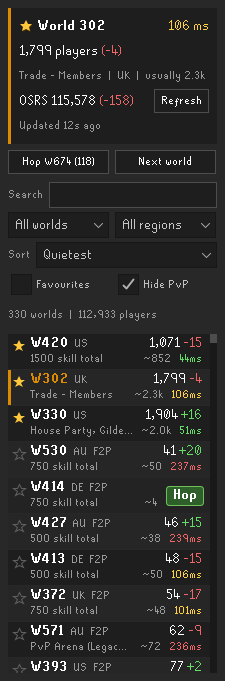
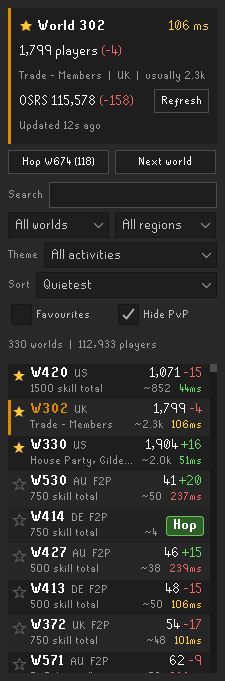
Themes: pick from a dropdown instead of typing
Find: Themed worlds now uses a Theme dropdown covering every themed world
in Jagex's list (checked against a real world list by a test). The
overlay line is labelled with the theme, chat and sidebar use its name,
and the sidebar gains a matching Theme filter. Hardcore worlds only come
up under the Hardcore theme.

diff --git a/src/main/java/com/playercount/WorldTheme.java b/src/main/java/com/playercount/WorldTheme.java
@@ -1,0 +1,123 @@
+package com.playercount;
+
+import java.util.Locale;
+import net.runelite.http.api.worlds.World;
+import net.runelite.http.api.worlds.WorldType;
+
+/**
+ * Themed worlds, as Jagex labels them in the world list's activity column (checked against the live list).
+ * Each theme matches worlds whose activity contains any of its terms, or that have its world type.
+ * Risky ones (PvP, Deadman...) come last and are warned about in red.
+ */
+public enum WorldTheme
+{
+	AGILITY("Agility training", "agility training"),
+	BARBARIAN_ASSAULT("Barbarian Assault", "barbarian assault"),
+	BLAST_FURNACE("Blast Furnace", "blast furnace"),
+	BRIMHAVEN_AGILITY("Brimhaven Agility Arena", "brimhaven agility"),
+	CASTLE_WARS("Castle Wars", "castle wars"),
+	CLAN_RECRUITMENT("Clan recruitment", "clan recruitment"),
+	CLAN_WARS("Clan Wars", "clan wars"),
+	DOG_WALKING("Dog walking", "dog walking"),
+	FALADOR_PARTY_ROOM("Falador Party Room", "party room"),
+	FISHING_TRAWLER("Fishing Trawler", "fishing trawler"),
+	FORESTRY("Forestry", "forestry"),
+	FRACTURED_ARCHIVE("The Fractured Archive", "fractured archive"),
+	GAMES_ROOM("Burthorpe Games Room", "games room"),
+	GROUP_PVM("Group PvM", "group pvm"),
+	GROUP_SKILLING("Group skilling", "group skilling"),
+	GUARDIANS_OF_THE_RIFT("Guardians of the Rift", "guardians of the rift"),
+	HOUSE_PARTY("House party / Gilded altar", "house party", "gilded altar"),
+	MASTERING_MIXOLOGY("Mastering Mixology", "mixology"),
+	MORTTON("Mort'ton / Rat Pits", "mort'ton", "rat pits"),
+	NEX("Nex", "nex"),
+	NIGHTMARE("Nightmare", "nightmare"),
+	OURANIA("Ourania Altar", "ourania"),
+	PEST_CONTROL("Pest Control", "pest control"),
+	PYRAMID_PLUNDER("Pyramid Plunder", "pyramid plunder"),
+	ROLE_PLAYING("Role-playing", "role-playing", "role playing"),
+	ROYAL_TITANS("Royal Titans", "royal titans"),
+	SALVAGING("Salvaging", "salvaging"),
+	SORCERESS_GARDEN("Sorceress's Garden", "sorceress"),
+	SOUL_WARS("Soul Wars", "soul wars"),
+	SULLIUSCEP("Sulliuscep cutting", "sulliuscep"),
+	TEMPOROSS("Tempoross", "tempoross"),
+	THEATRE_OF_BLOOD("Theatre of Blood", "theatre of blood"),
+	TOMBS_OF_AMASCUT("Tombs of Amascut", "tombs of amascut", "toa ffa"),
+	TRADE("Trade", "trade"),
+	TROUBLE_BREWING("Trouble Brewing", "trouble brewing"),
+	TZHAAR_FIGHT_PIT("TzHaar Fight Pit", "fight pit"),
+	VARLAMORE_PVM("Varlamore PvM", "varlamore pvm"),
+	VOLCANIC_MINE("Volcanic Mine", "volcanic mine"),
+	WINTERTODT("Wintertodt", "wintertodt"),
+	YAMA("Yama", "yama"),
+	ZALCANO("Zalcano", "zalcano"),
+	ZEAH_RUNECRAFTING("Zeah Runecrafting", "zeah runecrafting"),
+	SKILL_TOTAL("Skill total worlds", "skill total"),
+	LAST_MAN_STANDING("Last Man Standing", "lms", "last man standing"),
+	PVP_ARENA("PvP Arena", "pvp arena"),
+	HARDCORE("Hardcore worlds", "hardcore"),
+	// Risky or separate-account: warned in red
+	PVP("PvP worlds", WorldType.PVP, "pvp world", "wilderness pk"),
+	HIGH_RISK("High risk", WorldType.HIGH_RISK, "high risk"),
+	BOUNTY_HUNTER("Bounty Hunter", WorldType.BOUNTY, "bounty hunter"),
+	DEADMAN("Deadman", WorldType.DEADMAN, "deadman"),
+	LEAGUES("Leagues / seasonal", WorldType.SEASONAL, "leagues"),
+	SPEEDRUNNING("Speedrunning", WorldType.QUEST_SPEEDRUNNING, "speedrunning"),
+	FRESH_START("Fresh Start", WorldType.FRESH_START_WORLD, "fresh start");
+
+	private final String label;
+	private final WorldType type;
+	private final String[] terms;
+
+	WorldTheme(String label, String... terms)
+	{
+		this(label, null, terms);
+	}
+
+	WorldTheme(String label, WorldType type, String... terms)
+	{
+		this.label = label;
+		this.type = type;
+		this.terms = terms;
+	}
+
+	/** Short form for the Small overlay size. */
+	String shortLabel()
+	{
+		String first = label.split("[ /]")[0];
+		return first.length() > 9 ? first.substring(0, 9) : first;
+	}
+
+	boolean matches(World w)
+	{
+		if (type != null && w.getTypes().contains(type))
+		{
+			return true;
+		}
+		String activity = w.getActivity() == null ? "" : w.getActivity().toLowerCase(Locale.ROOT);
+		if (activity.isEmpty() || "-".equals(activity))
+		{
+			return false;
+		}
+		// Hardcore worlds are for hardcore accounts; only the Hardcore theme sends you there.
+		if (this != HARDCORE && activity.contains("hardcore"))
+		{
+			return false;
+		}
+		for (String t : terms)
+		{
+			if (activity.contains(t))
+			{
+				return true;
+			}
+		}
+		return false;
+	}
+
+	@Override
+	public String toString()
+	{
+		return label;
+	}
+}

diff --git a/src/test/java/com/playercount/FinderAndStorageTest.java b/src/test/java/com/playercount/FinderAndStorageTest.java
@@ -92,28 +92,52 @@ public class FinderAndStorageTest
 	}
 
 	@Test
-	public void themedWorldsMatchActivitiesIncludingRiskyOnes()
+	public void themedWorldsRotateThroughTheChosenActivity()
 	{
 		List<World> worlds = Arrays.asList(
 			themed(307, 400, "Wintertodt"),
 			themed(309, 900, "Wintertodt"),
+			themed(395, 600, "Hardcore World - Wintertodt"),
 			themed(320, 150, "Tempoross"),
 			themed(330, 50, "House Party, Gilded Altar"),
-			themed(319, 300, "Last Man Standing", WorldType.LAST_MAN_STANDING),
-			themed(325, 500, "PvP world - Wintertodt fans", WorldType.PVP));
-		java.util.List<String> themes = Arrays.asList(" wintertodt", "TEMPOROSS", "last man");
-		List<World> busiest = WorldStats.rank(worlds, base().themes(themes).mode(WorldStats.Mode.THEMED_BUSIEST).build());
-		assertEquals(Arrays.asList(309, 325, 307, 319, 320), ids(busiest)); // risky worlds allowed in Themed (warned)
-		assertEquals("PvP", WorldStats.risk(worlds.get(5)));
-		assertNull(WorldStats.risk(worlds.get(4))); // LMS is a safe minigame
-		assertNull(WorldStats.risk(worlds.get(0)));
-		Map<Integer, Integer> pings = map(307, 20, 309, 200, 320, 40, 319, 60);
-		assertEquals(307, WorldStats.pick(worlds, base().themes(themes).pings(pings).mode(WorldStats.Mode.THEMED_BY_PING).build()).getId());
-		// Both: 307 = 0.1 ping + 0.56 quietness = 0.66 beats 309 = 1.0 + 0 = 1.0
-		assertEquals(307, WorldStats.pick(worlds, base().themes(themes).pings(pings).mode(WorldStats.Mode.THEMED_BALANCED).build()).getId());
-		assertNull(WorldStats.pick(worlds, base().mode(WorldStats.Mode.THEMED_BUSIEST).build())); // no themes
-		// Outside Themed mode special worlds are still never suggested
+			themed(319, 300, "LMS Casual", WorldType.LAST_MAN_STANDING),
+			themed(325, 500, "PvP World", WorldType.PVP));
+		WorldStats.Criteria.CriteriaBuilder wt = base().theme(WorldTheme.WINTERTODT).mode(WorldStats.Mode.THEMED_BUSIEST);
+		assertEquals(Arrays.asList(309, 307), ids(WorldStats.rank(worlds, wt.build()))); // hardcore world skipped
+		Map<Integer, Integer> pings = map(307, 20, 309, 200);
+		assertEquals(307, WorldStats.pick(worlds, wt.pings(pings).mode(WorldStats.Mode.THEMED_BY_PING).build()).getId());
+		assertEquals(307, WorldStats.pick(worlds, wt.pings(pings).mode(WorldStats.Mode.THEMED_BALANCED).build()).getId());
+		assertEquals(319, WorldStats.pick(worlds, base().theme(WorldTheme.LAST_MAN_STANDING).mode(WorldStats.Mode.THEMED_BUSIEST).build()).getId());
+		assertEquals(330, WorldStats.pick(worlds, base().theme(WorldTheme.HOUSE_PARTY).mode(WorldStats.Mode.THEMED_BUSIEST).build()).getId());
+		// Risky worlds only through their theme, and flagged
+		World pvp = WorldStats.pick(worlds, base().theme(WorldTheme.PVP).mode(WorldStats.Mode.THEMED_BUSIEST).build());
+		assertEquals(325, pvp.getId());
+		assertEquals("PvP", WorldStats.risk(pvp));
+		assertNull(WorldStats.risk(worlds.get(5))); // LMS is a safe minigame
 		assertTrue(WorldStats.rank(worlds, base().build()).stream().noneMatch(w -> w.getId() == 319 || w.getId() == 325));
+		assertNull(WorldStats.pick(worlds, base().mode(WorldStats.Mode.THEMED_BUSIEST).build())); // no theme chosen
+	}
+
+	@Test
+	public void everyThemeMatchesAtLeastOneLiveWorld() throws java.io.IOException
+	{
+		// Guards against typos in theme terms: the sample is a real world list from 2026-11-11.
+		List<World> live;
+		try (java.io.InputStream in = getClass().getResourceAsStream("slr-sample.bin"))
+		{
+			live = SlrParser.parse(in.readAllBytes());
+		}
+		java.util.Set<WorldTheme> unseen = EnumSet.noneOf(WorldTheme.class);
+		for (WorldTheme t : WorldTheme.values())
+		{
+			if (live.stream().noneMatch(t::matches))
+			{
+				unseen.add(t);
+			}
+		}
+		// A few are seasonal or rotate; everything else should be present
+		unseen.remove(WorldTheme.LEAGUES);
+		assertTrue("Themes with no matching world: " + unseen, unseen.isEmpty());
 	}
 
 	private static World themed(int id, int players, String activity, WorldType... extra)

diff --git a/src/main/java/com/playercount/WorldListPanel.java b/src/main/java/com/playercount/WorldListPanel.java
@@ -150,6 +150,7 @@ class WorldListPanel extends PluginPanel
 	private final JComboBox<String> membership = new JComboBox<>(new String[]{"All worlds", "Members", "Free-to-play"});
 	private final JComboBox<String> region = new JComboBox<>();
 	private final JComboBox<Sort> sort = new JComboBox<>(Sort.values());
+	private final JComboBox<Object> theme = new JComboBox<>();
 	private final JCheckBox favouritesOnly = checkbox("Favourites", false);
 	private final JCheckBox hideSpecial = checkbox("Hide PvP", true);
 	private final JLabel summary = label(FontManager.getRunescapeSmallFont(), SUBTLE);
@@ -330,6 +331,18 @@ class WorldListPanel extends PluginPanel
 		combos.add(region);
 		p.add(combos);
 
+		theme.addItem("All activities");
+		for (WorldTheme t : WorldTheme.values())
+		{
+			theme.addItem(t);
+		}
+		theme.setToolTipText("Show only worlds running this activity");
+		JPanel themeRow = new JPanel(new BorderLayout(6, 0));
+		themeRow.setOpaque(false);
+		themeRow.add(label(FontManager.getRunescapeSmallFont(), SUBTLE, "Theme"), BorderLayout.WEST);
+		themeRow.add(theme, BorderLayout.CENTER);
+		p.add(themeRow);
+
 		JPanel sortRow = new JPanel(new BorderLayout(6, 0));
 		sortRow.setOpaque(false);
 		sortRow.add(label(FontManager.getRunescapeSmallFont(), SUBTLE, "Sort"), BorderLayout.WEST);
@@ -366,6 +379,7 @@ class WorldListPanel extends PluginPanel
 		membership.addActionListener(e -> rebuild());
 		region.addActionListener(e -> rebuild());
 		sort.addActionListener(e -> rebuild());
+		theme.addActionListener(e -> rebuild());
 		favouritesOnly.setToolTipText("Only show starred worlds");
 		hideSpecial.setToolTipText("Hide PvP, Deadman, seasonal and other special worlds");
 		favouritesOnly.addActionListener(e -> rebuild());
@@ -483,7 +497,11 @@ class WorldListPanel extends PluginPanel
 			{
 				continue;
 			}
-			if (hideSpecial.isSelected() && WorldStats.isSpecial(w))
+			if (theme.getSelectedItem() instanceof WorldTheme && !((WorldTheme) theme.getSelectedItem()).matches(w))
+			{
+				continue;
+			}
+			if (hideSpecial.isSelected() && WorldStats.isSpecial(w) && !(theme.getSelectedItem() instanceof WorldTheme))
 			{
 				continue;
 			}

diff --git a/src/main/java/com/playercount/PlayerCountPlugin.java b/src/main/java/com/playercount/PlayerCountPlugin.java
@@ -992,7 +992,7 @@ public class PlayerCountPlugin extends Plugin
 			.favorites(favorites)
 			.usual(config.preferUsual() ? usage.usualAll(Instant.now()) : Collections.emptyMap())
 			.preferUsual(config.preferUsual())
-			.themes(themes())
+			.theme(config.theme())
 			.build();
 	}
 
@@ -1094,24 +1094,11 @@ public class PlayerCountPlugin extends Plugin
 
 	// ---- Favourites ----
 
-	/** The Themes setting split into terms. */
-	private List<String> themes()
-	{
-		String raw = config.themedWorlds();
-		if (raw == null || raw.trim().isEmpty())
-		{
-			return Collections.emptyList();
-		}
-		return java.util.Arrays.stream(raw.split(",")).map(String::trim).filter(t -> !t.isEmpty()).collect(Collectors.toList());
-	}
-
 	private String noMatchMessage()
 	{
 		if (config.finderMode() == PlayerCountConfig.FinderMode.THEMED)
 		{
-			return themes().isEmpty()
-				? "Add some themes first, under World finder > Themes (e.g. Wintertodt, Tempoross)."
-				: "No open world matches your themes (" + String.join(", ", themes()) + "). The sidebar's search shows what activities exist.";
+			return "No open " + config.theme() + " worlds right now match your finder settings.";
 		}
 		if (config.finderMode() == PlayerCountConfig.FinderMode.FAVOURITES && favorites.isEmpty())
 		{
@@ -1218,7 +1205,7 @@ public class PlayerCountPlugin extends Plugin
 			.total(t == null ? -1 : t.getTotal())
 			.totalChange(totalChange())
 			.suggestion(suggestion)
-			.finderLabel(config.finderMode().toString())
+			.finderLabel(config.finderMode() == PlayerCountConfig.FinderMode.THEMED ? config.theme().toString() : config.finderMode().toString())
 			.finderOff(config.finderMode() == PlayerCountConfig.FinderMode.OFF)
 			.warnRisky(config.warnRisky())
 			.updated(getLastUpdate())

diff --git a/src/main/java/com/playercount/WorldStats.java b/src/main/java/com/playercount/WorldStats.java
@@ -87,9 +87,8 @@ final class WorldStats
 		@Builder.Default
 		Map<Integer, Integer> usual = Collections.emptyMap();
 		boolean preferUsual;
-		/** For THEMED_* modes: activity texts to match (case-insensitive, contains). */
-		@Builder.Default
-		List<String> themes = Collections.emptyList();
+		/** For THEMED_* modes: the activity to match. */
+		WorldTheme theme;
 	}
 
 	enum Mode
@@ -116,24 +115,6 @@ final class WorldStats
 		return m == Mode.THEMED_BUSIEST || m == Mode.THEMED_BY_PING || m == Mode.THEMED_BALANCED;
 	}
 
-	/** True if the world's activity contains any of the themes. */
-	static boolean matchesTheme(World w, List<String> themes)
-	{
-		String activity = w.getActivity() == null ? "" : w.getActivity().toLowerCase(Locale.ROOT);
-		if (activity.isEmpty() || "-".equals(activity))
-		{
-			return false;
-		}
-		for (String t : themes)
-		{
-			String needle = t.trim().toLowerCase(Locale.ROOT);
-			if (!needle.isEmpty() && activity.contains(needle))
-			{
-				return true;
-			}
-		}
-		return false;
-	}
 
 	static Totals totals(List<World> worlds)
 	{
@@ -191,7 +172,7 @@ final class WorldStats
 			return false;
 		}
 		boolean themed = isThemed(c.getMode());
-		if (themed && !matchesTheme(w, c.getThemes()))
+		if (themed && (c.getTheme() == null || !c.getTheme().matches(w)))
 		{
 			return false;
 		}

diff --git a/src/main/java/com/playercount/PlayerCountConfig.java b/src/main/java/com/playercount/PlayerCountConfig.java
@@ -222,10 +222,10 @@ public interface PlayerCountConfig extends Config
 		return FavouriteOrder.LOWEST_PING;
 	}
 
-	@ConfigItem(keyName = "themedWorlds", name = "Themes", description = "For Find: Themed worlds. Comma-separated activities to look for, e.g. Wintertodt, Tempoross, Trade, House Party. Matches any world whose activity contains the text, including PvP, Deadman and Leagues worlds (warned in red). The sidebar's search shows what activities exist.", section = finderSection, position = 3)
-	default String themedWorlds()
+	@ConfigItem(keyName = "theme", name = "Theme", description = "For Find: Themed worlds. Pick an activity and the finder rotates through every world running it (Next world cycles them). Risky ones such as PvP and Deadman are listed last and warned in red.", section = finderSection, position = 3)
+	default WorldTheme theme()
 	{
-		return "";
+		return WorldTheme.WINTERTODT;
 	}
 
 	@ConfigItem(keyName = "themedOrder", name = "Themed order", description = "For Find: Themed worlds, which matching world comes first (and the order Next world rotates through them). Both prefers busy, low-ping worlds.", section = finderSection, position = 4)

diff --git a/src/main/java/com/playercount/PlayerCountOverlay.java b/src/main/java/com/playercount/PlayerCountOverlay.java
@@ -349,7 +349,9 @@ class PlayerCountOverlay extends Overlay
 		if (config.showSuggestion() && config.finderMode() != PlayerCountConfig.FinderMode.OFF)
 		{
 			World s = plugin.getSuggestion();
-			String label = mini ? shortFinder() : config.finderMode().toString();
+			String label = config.finderMode() == PlayerCountConfig.FinderMode.THEMED
+				? (mini ? config.theme().shortLabel() : config.theme().toString())
+				: (mini ? shortFinder() : config.finderMode().toString());
 			if (s == null)
 			{
 				items.add(OverlayLayout.Item.line(label).add("none", MUTED));

diff --git a/README.md b/README.md
@@ -47,8 +47,10 @@ Suggests a world and hops you there from a hotkey, the overlay's right-click men
 
 - Find the **quietest**, **busiest** or **lowest ping** world, cycle through your **favourites**, or
   turn the finder **off**.
-- **Themed worlds**: list activities (`Wintertodt, Tempoross, Trade`) and the finder rotates through
-  every world running them, busiest first, lowest ping first, or both. Themed is the only mode that can
+- **Themed worlds**: pick an activity from a dropdown (Wintertodt, Tempoross, Guardians of the Rift,
+  Trade, Nex, ToA, Soul Wars, House party and every other themed world) and the finder rotates through
+  every world running it, busiest first, lowest ping first, or both. The sidebar has the same Theme
+  filter. Themed is the only mode that can
   suggest PvP, high-risk, Bounty Hunter, Deadman, Leagues, beta, speedrun or fresh-start worlds. When it
   does, the world **glows red** in the overlay and sidebar and chat warns you as you hop. You can turn
   the warning off.
